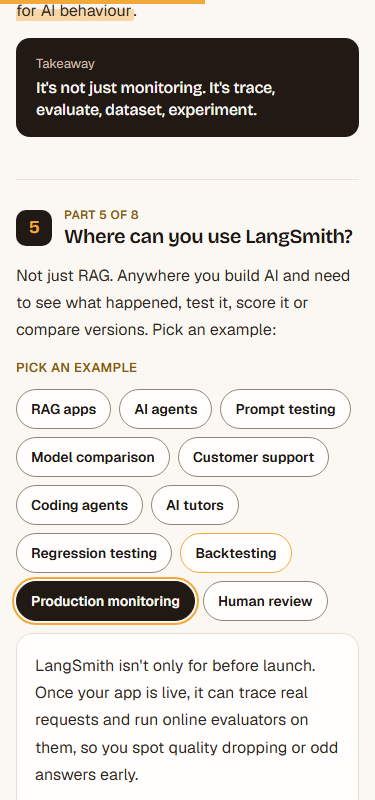
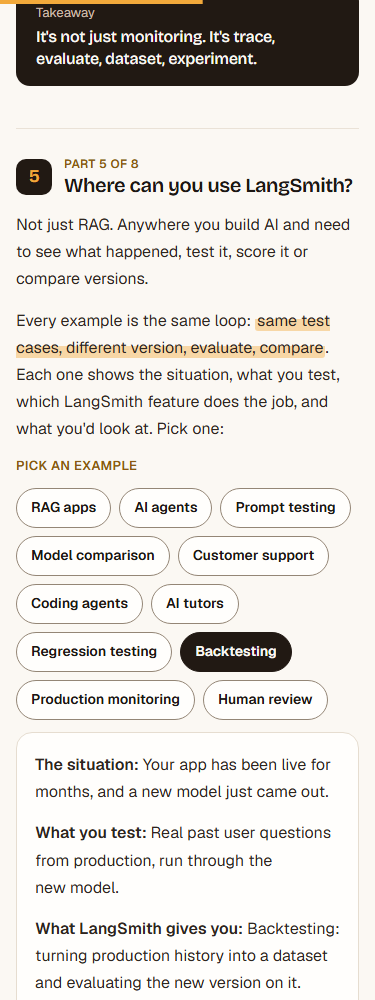
LangSmith post: explain each example (situation, test, feature, result)

diff --git a/scripts/seed-post-langsmith.py b/scripts/seed-post-langsmith.py
@@ -80,59 +80,82 @@ COVER_ALT = (
     "evaluation scores and a comparison between two versions of the app."
 )
 
+def example(title, situation, test, gives, look, *extra):
+    """One example tab, always read the same way: the situation, what you test, what LangSmith gives you and what
+    you'd look at, then a small diagram or sample where it helps."""
+    return tab(title,
+               *p(f"**The situation:** {situation}", f"**What you test:** {test}",
+                  f"**What LangSmith gives you:** {gives}", f"**What you'd look at:** {look}"),
+               *extra)
+
+
 EXAMPLES = {"type": "tabs", "label": "Pick an example", "items": [
-    tab("RAG apps",
-        *p("You change retrieval from the top 1 chunk to the top 3. Did the answers actually get better?",
-           "Build a dataset of questions with expected answers, run both versions, and compare the scores. Benchmarking "
-           "a RAG system like this is one of the main things LangSmith's docs cover."),
-        flow("Question", "Retriever", "Documents", "LLM", "Answer")),
-    tab("AI agents",
-        *p("Your agent can search the web, query a database, use a calculator and call APIs, and it gave a wrong "
-           "answer.",
-           "Instead of only staring at the final reply, open the trace and see every step: which tools it called, in "
-           "what order, and what each returned."),
-        flow("Agent", "Tool 1", "Tool 2", "Tool 3", "Final answer")),
-    tab("Prompt testing",
-        *p("Prompt V1 says \"Answer the user's question.\" Prompt V2 adds \"Explain clearly, keep it simple, give an "
-           "example.\" Which one is actually better?",
-           "Rather than testing 100 questions by hand twice, run the same dataset against both prompts and compare.")),
-    tab("Model comparison",
-        *p("You use Model A and want to try Model B. Don't ask \"which one feels better?\" Run the same benchmark "
-           "through both and compare the scores. Useful when you switch providers, versions or settings."),
-        flow("Same dataset", "Model A and Model B", "Scores", "Compare")),
-    tab("Customer support",
-        *p("Your test set holds real-style questions: \"How can I return my order?\", \"Where is my package?\", "
-           "\"What if my payment fails?\"",
-           "Check that the bot gives correct info, follows company rules, returns the required fields, uses the right "
-           "tools and keeps the right tone. Simple code checks handle structure; an LLM judge can score tone and "
-           "meaning.")),
-    tab("Coding agents",
-        *p("Your dataset is coding tasks: fix this bug, add this feature, write this function, refactor this code. "
-           "When version 2 of your agent ships, run the same tasks again and check: does the code compile, do the "
-           "tests pass, are the right files there?")),
-    tab("AI tutors",
-        *p("\"Explain Newton's second law to a Class 11 student.\" Build a dataset of real student questions and "
-           "score each answer: correct? clear? relevant? too complicated? Different evaluators can check different "
-           "qualities, then combine into one score.")),
-    tab("Regression testing",
-        *p("Your AI scores 92% on your test set. You tweak the prompt, and now it scores 76%. The app still "
-           "\"works\", but you just made it worse.",
-           "Running every new version against the same tests catches that before your users do. Don't let "
-           "yesterday's working AI become tomorrow's broken AI.")),
-    tab("Backtesting",
-        *p("A new model comes out. Instead of switching your live traffic straight away, run it on real past "
-           "questions from your app and compare with how the old version did. LangSmith calls this backtesting, and "
-           "it's a much safer way to make a big model change."),
-        flow("New model", "Historical examples", "Evaluate", "Compare with the old version")),
-    tab("Production monitoring",
-        *p("LangSmith isn't only for before launch. Once your app is live, it can trace real requests and run "
-           "online evaluators on them, so you spot quality dropping or odd answers early."),
-        flow("User request", "Live AI", "Answer", "Online evaluator", "Quality signal")),
-    tab("Human review",
-        *p("Some things a script can't judge, like whether a health-support reply is caring and useful. LangSmith "
-           "supports human annotation next to automatic checks: automated scores flag the uncertain cases, an expert "
-           "reviews them, and you sharpen your criteria."),
-        flow("AI output", "Automatic evaluation", "Uncertain cases", "Human review", "Better criteria")),
+    example("RAG apps",
+            "You switch retrieval from the top 1 chunk to the top 3. The app still runs, but are the answers better?",
+            "One dataset of questions with expected answers, run through the old and the new version.",
+            "Datasets, evaluators that score each answer, and experiments you can compare side by side.",
+            "Which questions improved, which got worse, and the overall score of each version.",
+            flow("Question", "Retriever", "Documents", "LLM", "Answer")),
+    example("AI agents",
+            "Your agent searches the web, queries a database, uses a calculator and calls APIs. Today it gave a wrong "
+            "answer, and the final reply doesn't say why.",
+            "The run that went wrong, step by step.",
+            "A trace of every step: each tool call, what it returned, and each model response.",
+            "The exact step where the agent took the wrong turn.",
+            flow("Agent", "Tool 1", "Tool 2", "Tool 3", "Final answer")),
+    example("Prompt testing",
+            "You rewrote your system prompt to be clearer and add examples. Is the new one actually better?",
+            "The same dataset of questions, run with prompt V1 and prompt V2.",
+            "Two experiments on one dataset, scored by the same evaluators, compared side by side.",
+            "Questions where V2 is better, questions where it got worse, and the overall difference.",
+            code("Prompt V1: Answer the user's question.\n\n"
+                 "Prompt V2: Answer clearly. Explain difficult concepts simply.\n"
+                 "           Give an example when useful.")),
+    example("Model comparison",
+            "Your app uses Model A, and Model B just came out. Should you switch?",
+            "The same benchmark dataset, run through both models.",
+            "Experiments for each model, scored the same way, plus pairwise comparison of the two answers.",
+            "Whether Model B is better, where it fails, and whether it's worth the switch.",
+            flow("Same dataset", "Model A and Model B", "Scores", "Compare")),
+    example("Customer support",
+            "Your support bot answers things like \"How can I return my order?\" and \"What if my payment fails?\"",
+            "A dataset of realistic support questions, run on every new version of the bot.",
+            "Code evaluators for structure and required fields, and an LLM judge for meaning and tone.",
+            "Wrong information, broken company rules, missing fields or the wrong tone."),
+    example("Coding agents",
+            "You built version 2 of your coding agent. Does it solve more tasks than version 1?",
+            "A set of tasks (fix this bug, add this feature, refactor this code) run on both versions.",
+            "Code evaluators that check each result automatically: does it compile, do the tests pass?",
+            "How many tasks each version solved, and which ones version 2 broke."),
+    example("AI tutors",
+            "Your tutor explains topics like Newton's second law to Class 11 students.",
+            "Hundreds of real student questions, run on each version of the tutor.",
+            "Different evaluators for different qualities (code checks, an LLM judge), combined into one score.",
+            "Answers that are wrong, unclear, too complicated or missing a key idea."),
+    example("Regression testing",
+            "Your AI scored 92% on your tests. You tweaked the prompt, and now it scores 76%. It still \"works\".",
+            "Your saved test set, run on every new version before release.",
+            "Repeatable experiments on the same dataset, so any drop shows up straight away.",
+            "The score change and the exact questions that broke.",
+            pair(("Before your change", "92%"), ("After your change", "76%: caught before release"))),
+    example("Backtesting",
+            "Your app has been live for months, and a new model just came out.",
+            "Real past user questions from production, run through the new model.",
+            "Backtesting: turning production history into a dataset and evaluating the new version on it.",
+            "Whether the new model beats what users actually got, before it touches live traffic.",
+            flow("New model", "Historical examples", "Evaluate", "Compare with the old version")),
+    example("Production monitoring",
+            "Your AI is live, and quality can drift in ways your tests never covered.",
+            "Real requests from real users, as they happen.",
+            "Traces of live runs and online evaluators that score them automatically.",
+            "Quality dropping over time, bad conversations, and new cases to add to your tests.",
+            flow("User request", "Live AI", "Answer", "Online evaluator", "Quality signal")),
+    example("Human review",
+            "Some answers need a person to judge, like whether a health-support reply is caring and useful.",
+            "The answers your automatic checks flag as uncertain.",
+            "Human annotation next to automatic evaluation, so experts can score and comment.",
+            "What the experts disagree with, so you can sharpen your automatic checks.",
+            flow("AI output", "Automatic evaluation", "Uncertain cases", "Human review", "Better criteria")),
 ]}
 
 BODY = [
@@ -190,10 +213,10 @@ BODY = [
     takeaway("It's not just monitoring. It's trace, evaluate, dataset, experiment."),
 
     h("Where can you use LangSmith?", "part-5"),
-    *p("Not just RAG. Anywhere you build AI and need to see what happened, test it, score it or compare versions. "
-       "Pick an example:"),
+    *p("Not just RAG. Anywhere you build AI and need to see what happened, test it, score it or compare versions.",
+       "Every example is the same loop: ==same test cases, different version, evaluate, compare==. Each one shows "
+       "the situation, what you test, which LangSmith feature does the job, and what you'd look at. Pick one:"),
     EXAMPLES,
-    *p("The pattern is always the same: ==same test cases, different AI version, evaluate, compare==."),
     takeaway("If you can write test questions for it, you can measure it."),
 
     h("What about Phoenix?", "part-6"),
